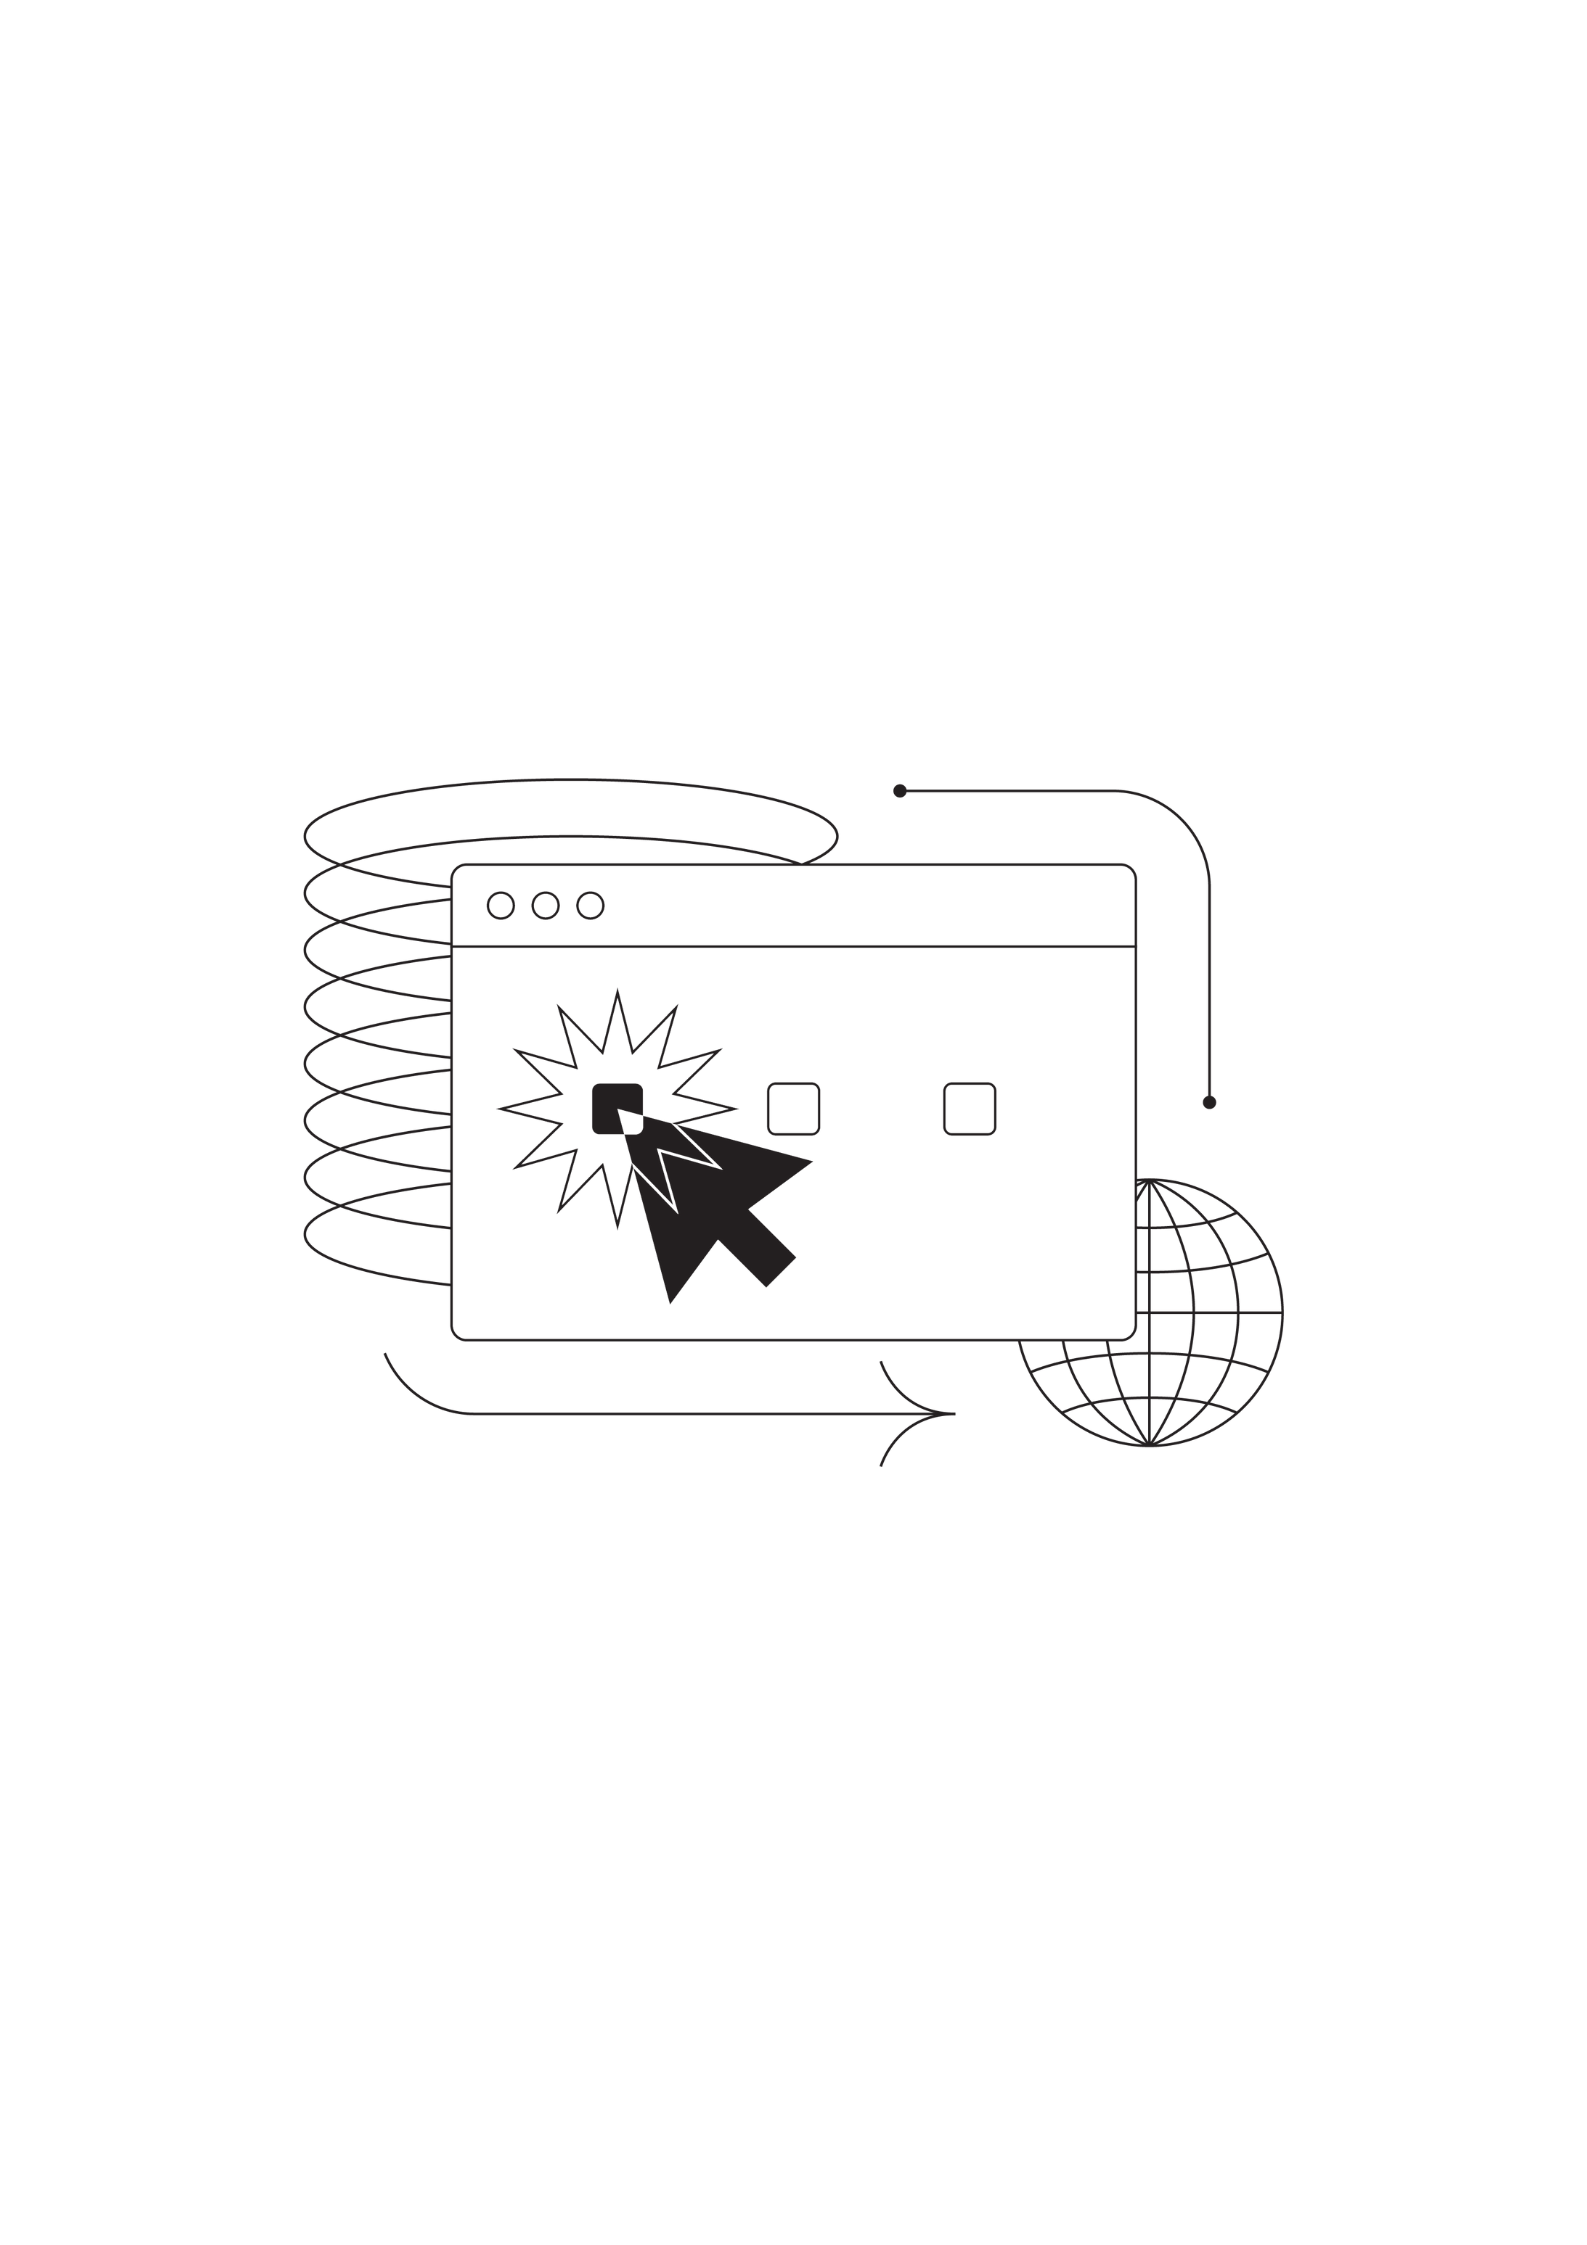
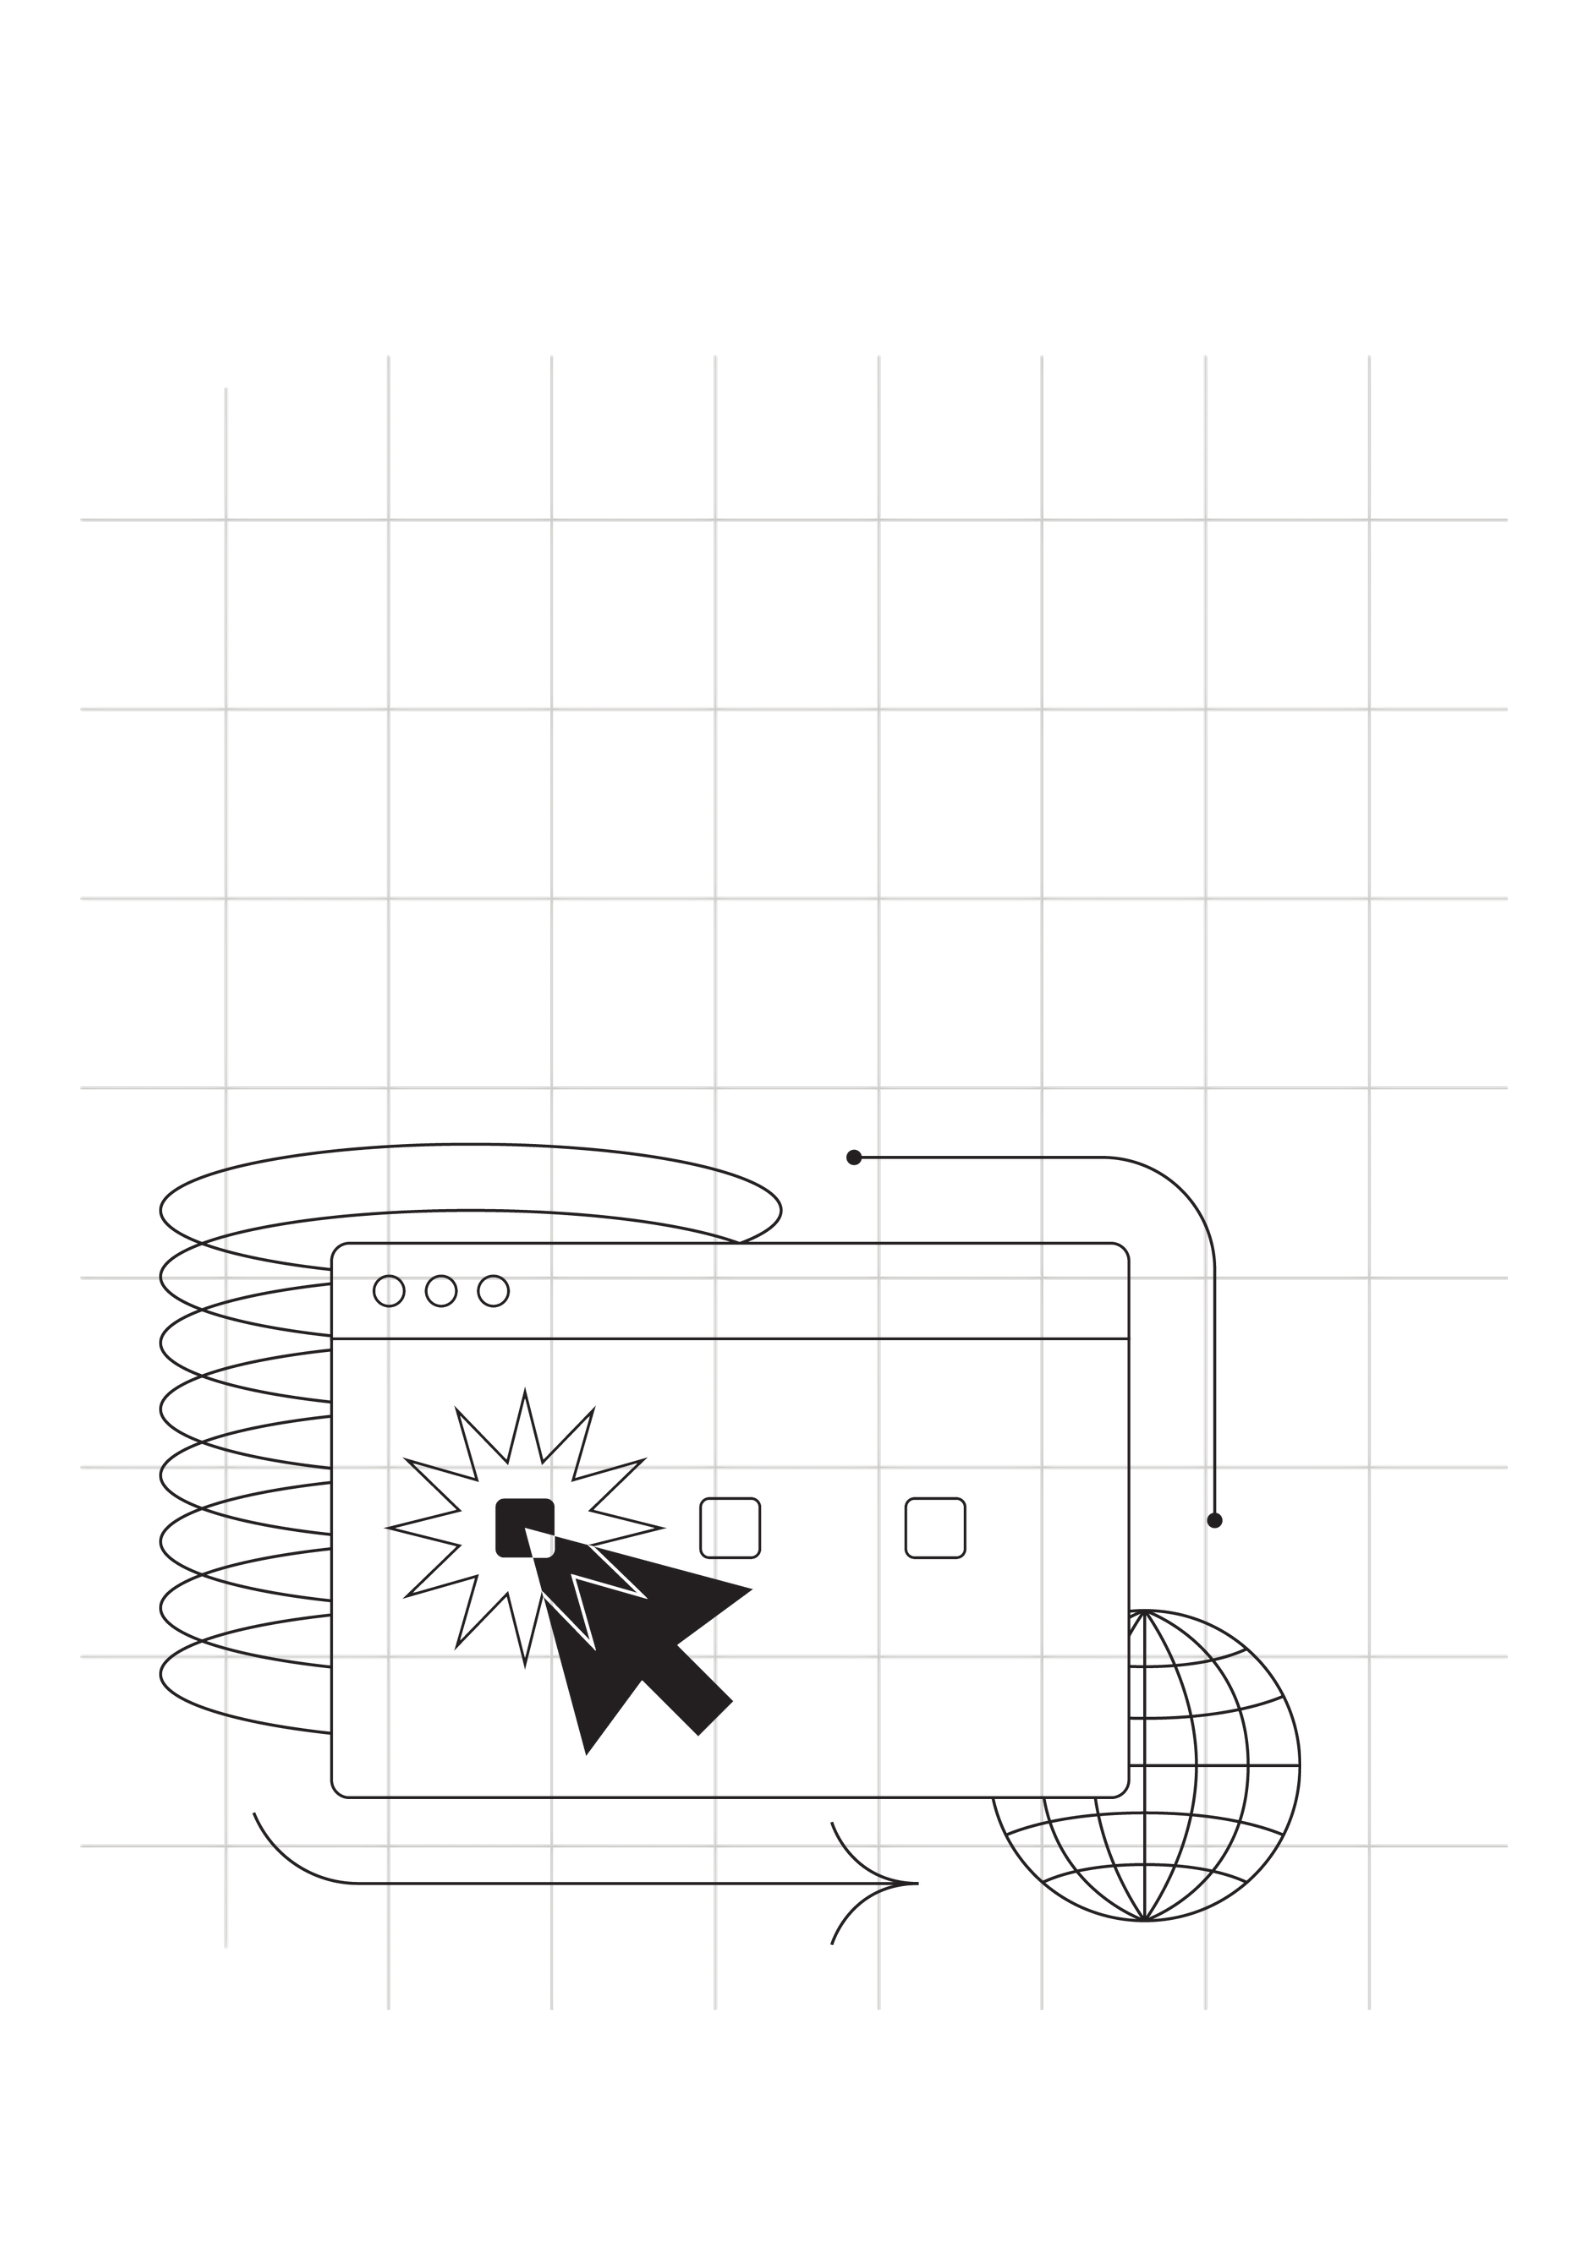
Update LoginForm to route users based on role after successful login

diff --git a/src/Components/Auth/LoginForm.jsx b/src/Components/Auth/LoginForm.jsx
@@ -29,7 +29,20 @@ const LoginForm = () => {
                 const data = await response.json();
                 console.log('Login successful:', data); 
                 toast.success('Login successful'); 
-                navigate('/studenthomepage');
+                switch (data.role) {
+                    case 0:
+                        navigate('/adminhomepage'); // Route for admin
+                        break;
+                    case 1:
+                        navigate('/adviserhomepage'); // Route for adviser
+                        break;
+                    case 2:
+                        navigate('/studenthomepage'); // Route for student
+                        break;
+                    default:
+                        navigate('/'); // Fallback route
+                        break;
+                }
             } else {
                 console.log('Login failed');
                 toast.error('Login failed');  
@@ -77,7 +90,7 @@ const LoginForm = () => {
                         <div>
                             <label htmlFor="password">Password
                             <span className="visiblePassword" onClick={togglePasswordVisibility}>
-                                    {showPassword ? '🙈Hide' : '👁Show'} {/* This can be replaced with an icon */}
+                                    {showPassword ? '🙈Hide' : '👁Show'}  
                                 </span>
                             </label>
                             <input 

diff --git a/src/App.js b/src/App.js
@@ -2,21 +2,22 @@ import React from 'react';
 import { BrowserRouter as Router, Route, Routes } from 'react-router-dom';
 import LoginForm from './Components/Auth/LoginForm';
 import RegistrationForm from './Components/Auth/RegistrationForm';
-import StudentHomePage from './Components/Student/HomePage'; 
+import AdminHomePage from './Components/Admin/AdminPage'; 
+import AdviserHomePage from './Components/Adviser/AdviserPage'; 
+import StudentHomePage from './Components/Student/StudentPage'; 
 import { ToastContainer } from 'react-toastify';
 
 function App() {
-    return (
-        
-
+    return ( 
         <Router>
-            <ToastContainer/>
+            <ToastContainer />
             <Routes>
                 <Route path="/login" element={<LoginForm />} />
                 <Route path="/register" element={<RegistrationForm />} />
+                <Route path="/adminhomepage" element={<AdminHomePage />} />
+                <Route path="/adviserhomepage" element={<AdviserHomePage />} />
                 <Route path="/studenthomepage" element={<StudentHomePage />} />
-                <Route path="/" element={ 
-                  <RegistrationForm/>} />
+                <Route path="/" element={<RegistrationForm />} />
                 <Route path="*" element={<h1>404 Not Found</h1>} />
             </Routes>
         </Router>

diff --git a/src/Components/Auth/auth.css b/src/Components/Auth/auth.css
@@ -6,30 +6,29 @@ body {
 }
 
 .container {
-    display: flex; /* Ensure the container uses flexbox */
-    width: 100%; /* Full width for the container */
-    height: 100%; /* Full height for the container */
+    display: flex;
+    width: 100%; 
+    height: 100%;
 }
 
 .left {
-    flex: 1; /* Take up remaining space */
-    display: flex; /* Align contents in the center */
-    justify-content: center; /* Center horizontally */
-    align-items: center; /* Center vertically */
+    flex: 1;
+    display: flex; 
+    justify-content: center; 
+    align-items: center;
 }
 
 .image1 {
-    max-width: 100%; 
-    width: 100%; 
+    max-width: 65%; 
+    width: 80%; 
     height: auto;  
-    border-radius: 12px;
 }
 
 .right {
-    flex: 1; /* Take up remaining space */
-    display: flex; /* Align contents in the center */
-    justify-content: center; /* Center horizontally */
-    align-items: center; /* Center vertically */
+    flex: 1;
+    display: flex;
+    justify-content: center; 
+    align-items: center;  
 }
  
 .login-form, .registration-form {  
@@ -37,7 +36,7 @@ body {
     border-radius: 24px;
     box-shadow: 0 2px 10px rgba(0, 0, 0, 0.1);
     padding: 50px;
-    width: 500px; /* Fixed width for the form */
+    width: 500px;  
     text-align: center;
     color: #666666;
 }

diff --git a/src/Components/Adviser/AdviserPage.jsx b/src/Components/Adviser/AdviserPage.jsx
@@ -1,0 +1,11 @@
+import React from 'react'
+
+const HomePage = () => {
+  return (
+    <div>
+      <h2>this is adviser home page</h2>
+    </div>
+  )
+}
+
+export default HomePage

diff --git a/src/Components/Admin/AdminPage.jsx b/src/Components/Admin/AdminPage.jsx
@@ -1,0 +1,11 @@
+import React from 'react'
+
+const Homepage = () => {
+  return (
+    <div>
+      <h2>this is admin home page</h2>
+    </div>
+  )
+}
+
+export default Homepage
